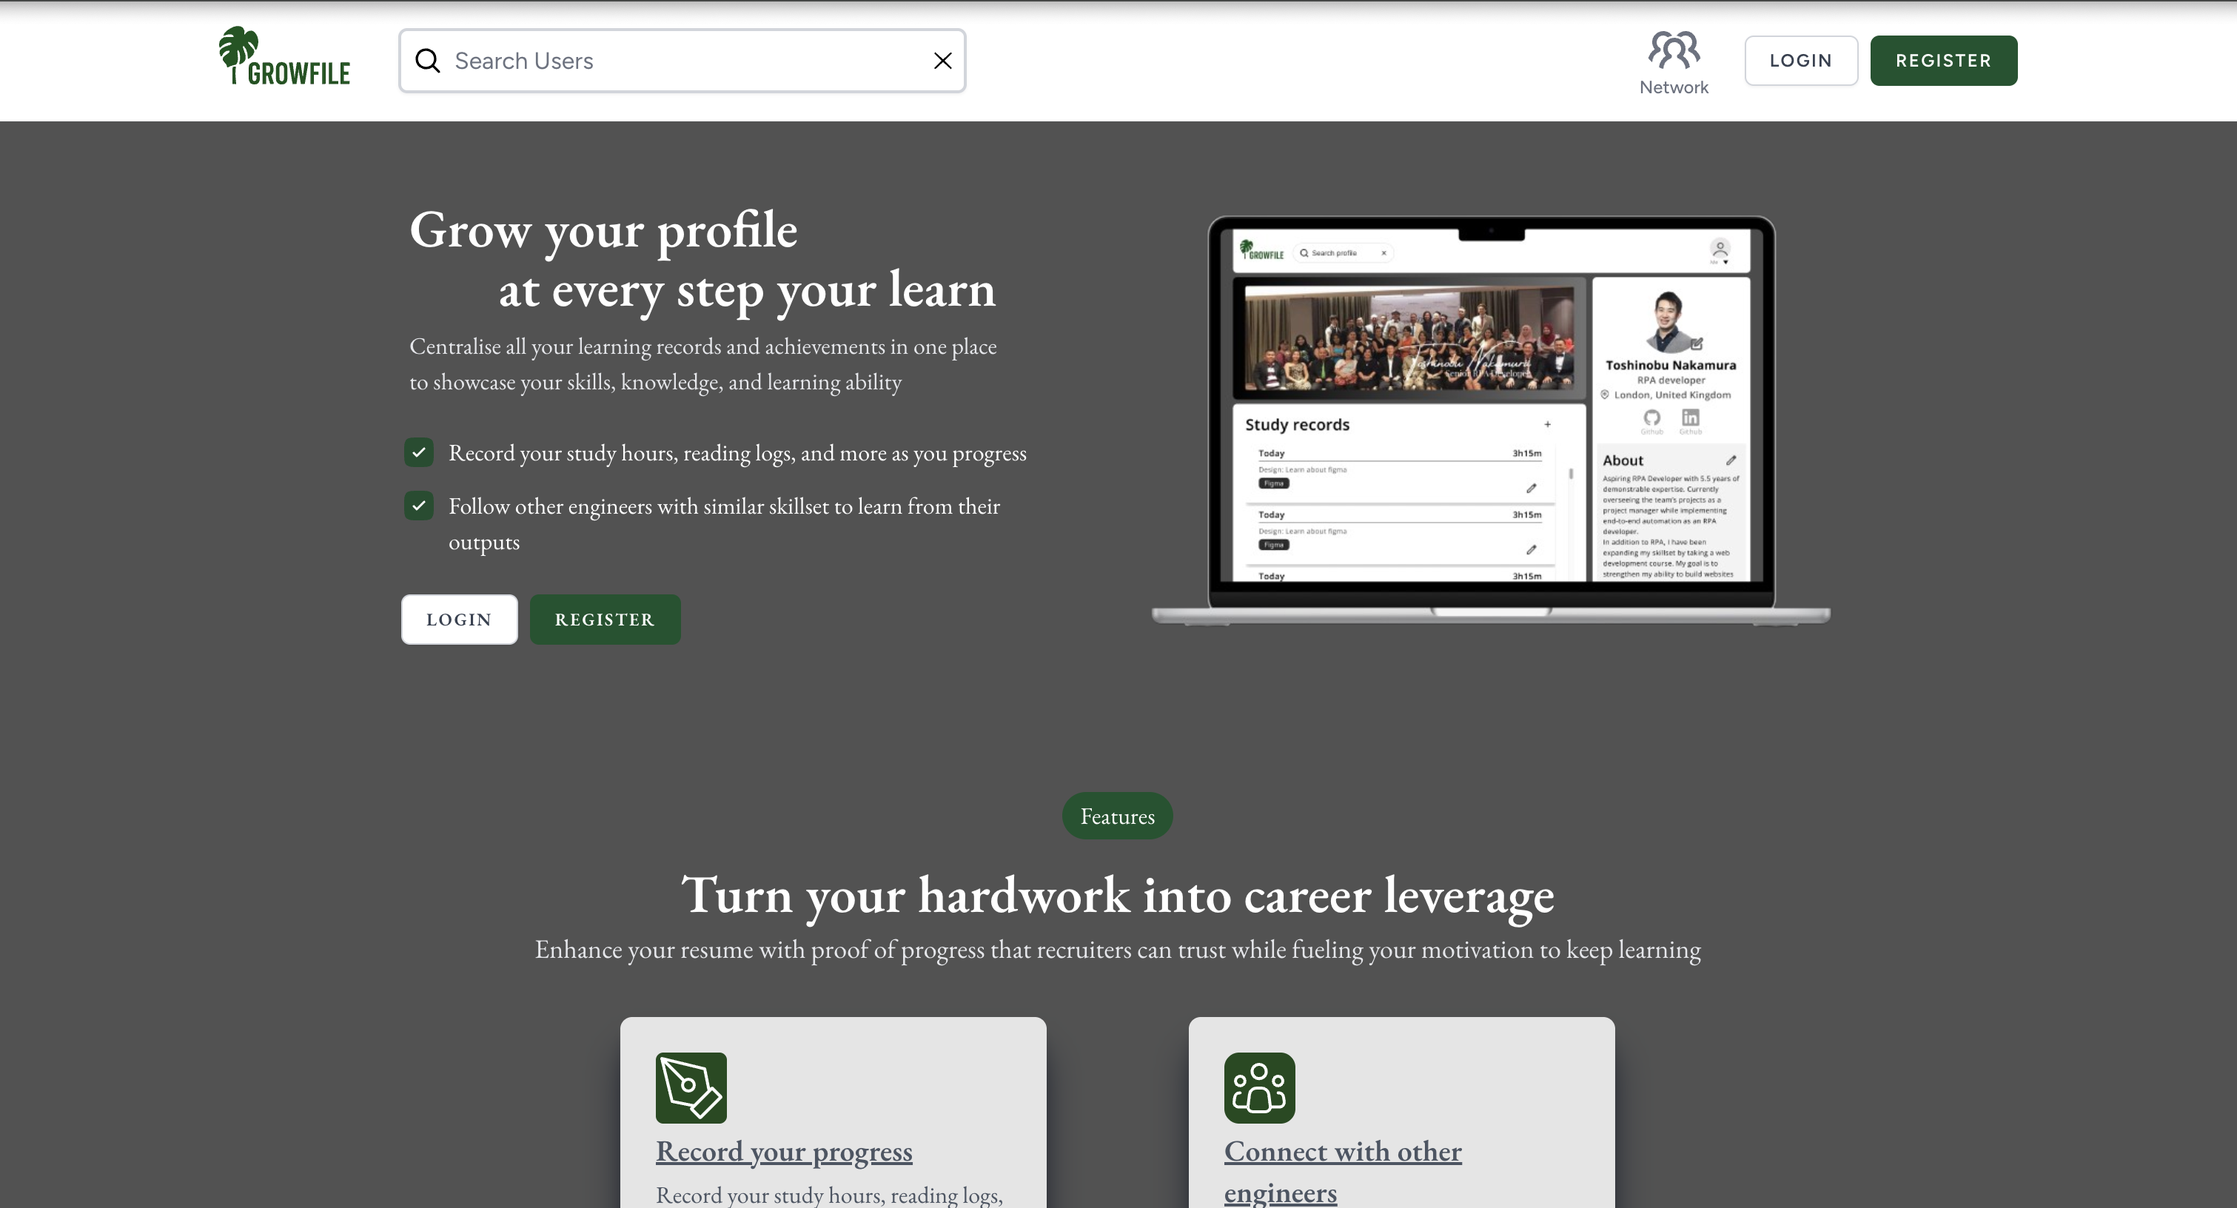
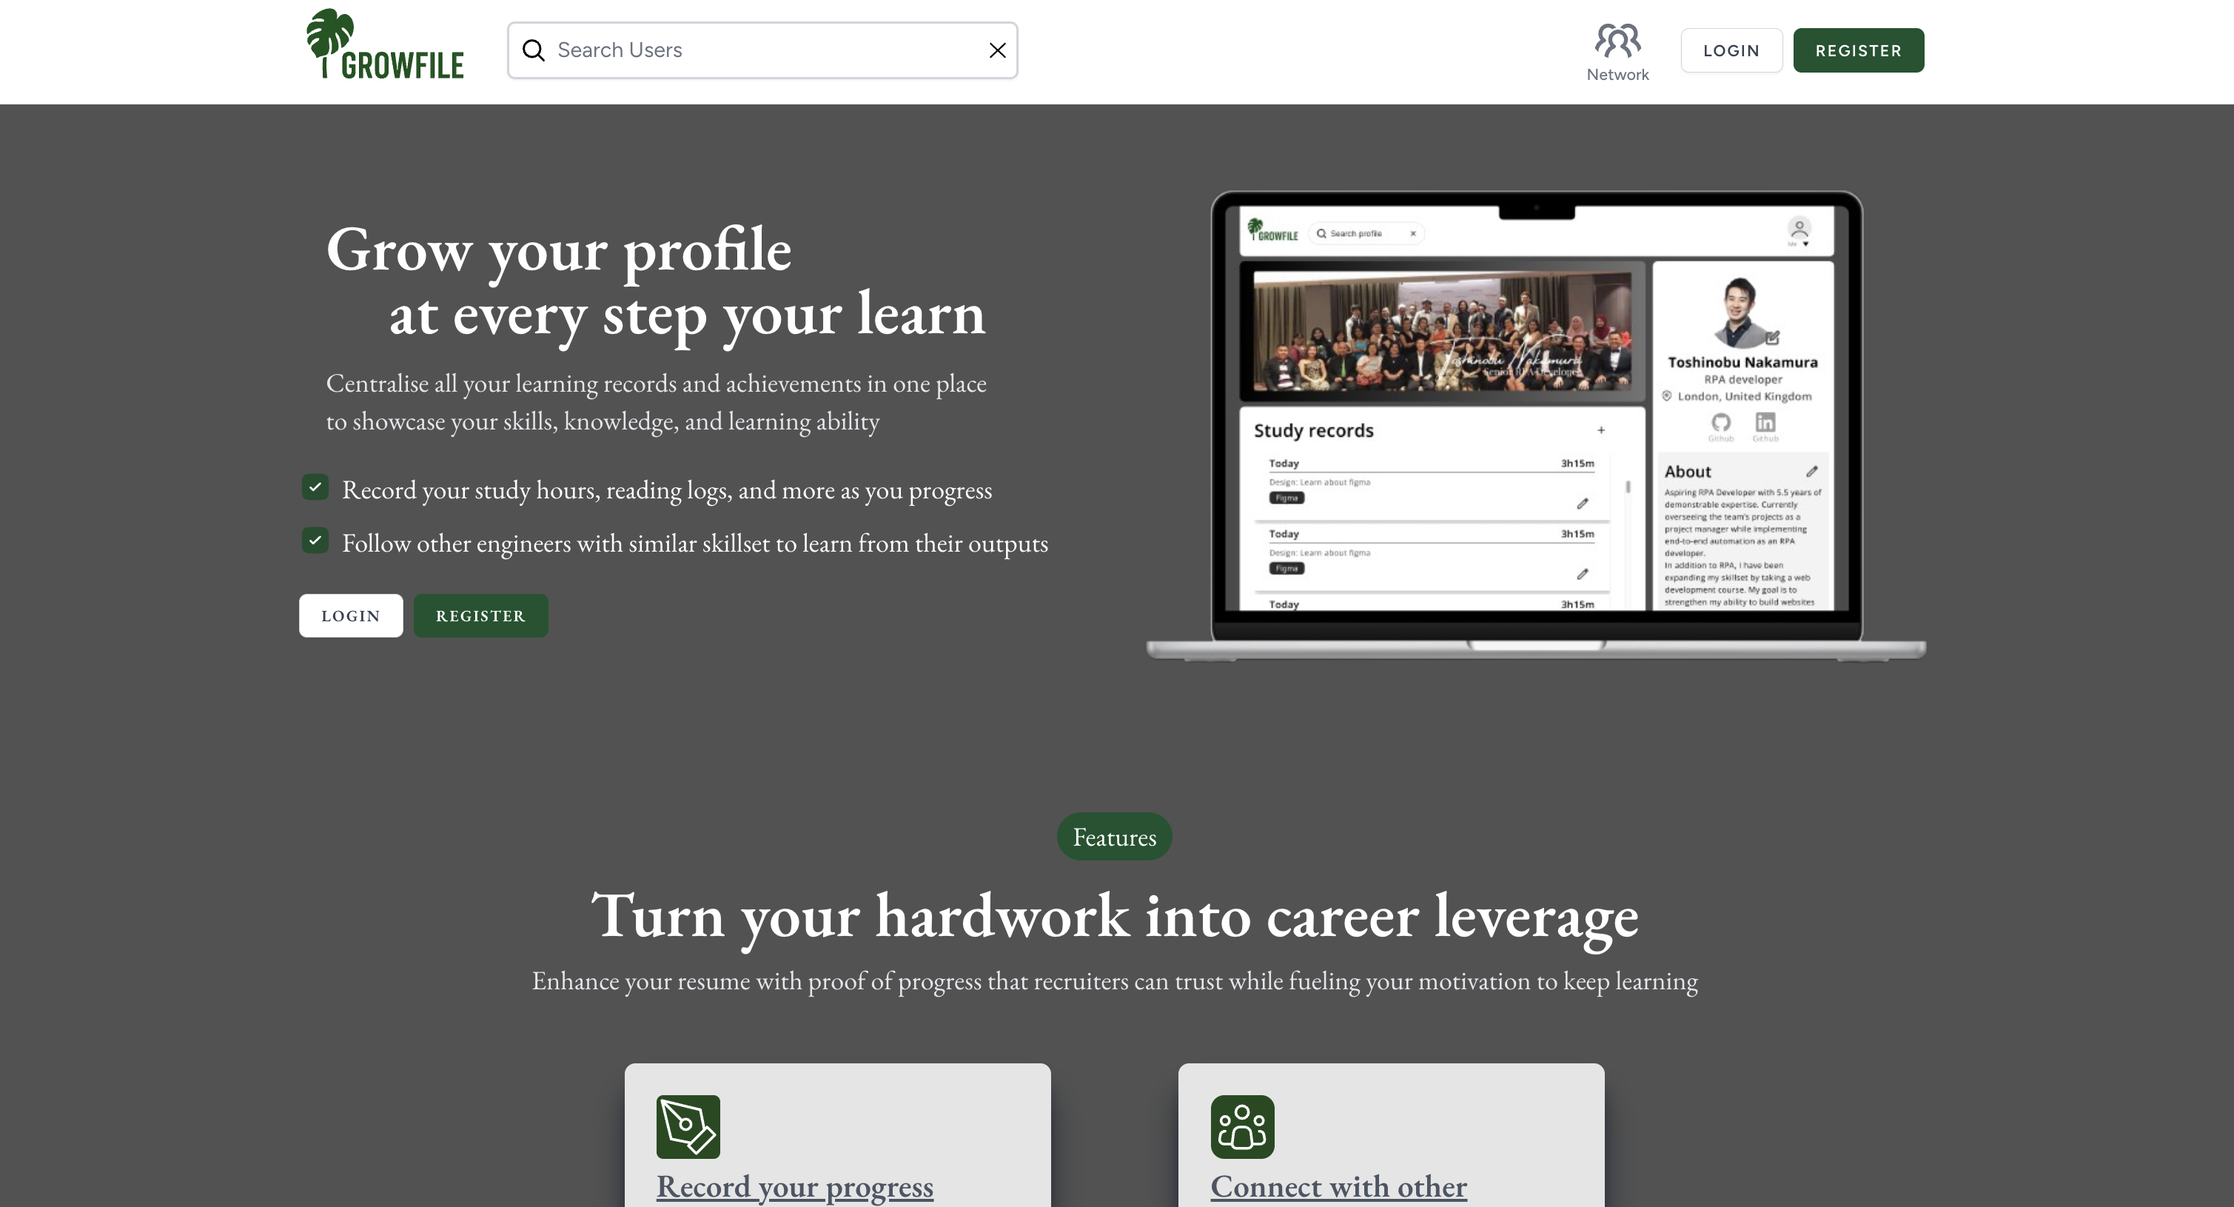
refactor: Change some text-size

diff --git a/growfile/resources/views/welcome.blade.php b/growfile/resources/views/welcome.blade.php
@@ -5,39 +5,32 @@
         </h2>
     </x-slot>
 
-    <div class="py-5 md:py-5 mx-auto font-garamond flex flex-col items-center gap-10 px-5 md:px-10">
+    <div class="py-5 font-garamond flex flex-col items-center gap-10 px-5 sm:px-10">
         
         {{-- Section 1: Hero --}}
-        <section class="mt-3 w-full max-w-5xl flex flex-col md:flex-row items-center">
+        <section class="mt-3 w-full max-w-7xl flex flex-col sm:flex-row items-center">
             <div class="flex-1 flex flex-col justify-around items-start gap-6">
                 <div class="mx-auto">
-                    <h2 class="text-3xl md:text-4xl text-white font-semibold text-left">Grow your profile</h2>
-                    <h2 class="text-3xl md:text-4xl text-white font-semibold text-right">at every step your learn</h2>
-                    <p class="text-md text-gray-200 text-center md:text-left text-wrap mt-2">
+                    <h2 class="text-3xl sm:text-5xl text-white font-semibold text-left">Grow your profile</h2>
+                    <h2 class="text-3xl sm:text-5xl text-white font-semibold text-right">at every step your learn</h2>
+                    <p class="text-md sm:text-xl text-gray-200 text-center sm:text-left text-wrap mt-2 sm:mt-4">
                         Centralise all your learning records and achievements in one place <br> 
                         to showcase your skills, knowledge, and learning ability
                     </p>
                 </div>
                 
                 {{-- Display image here in smartphones --}}
-                <div class="block overflow-hidden md:ml-10 rounded-lg sm:w-56 md:hidden">
+                <div class="block overflow-hidden sm:ml-10 rounded-lg sm:w-56 sm:hidden">
                     <img src="{{ asset('images/profile-page.png') }}" alt="profile page">
                 </div>
                 
                 <div class="sm:ml-7 flex flex-col gap-3">
-                    <div class="flex flex-row gap-2 items-start">
-                        <img src="{{ asset('images/icons/checked-mark.svg') }}" alt="check icon" class="w-6">
-                        <p class="text-md text-white text-left">
-                            Record your study hours, reading logs, and more as you progress
-                        </p>
-                    </div>
-                    
-                    <div class="flex flex-row gap-2 items-start">
-                        <img src="{{ asset('images/icons/checked-mark.svg') }}" alt="check icon" class="w-6">
-                        <p class="text-md text-white text-left">
-                            Follow other engineers with similar skillset to learn from their outputs
-                        </p>
-                    </div>
+                    <x-welcome.hero-item>
+                        Record your study hours, reading logs, and more as you progress
+                    </x-welcome.hero-item>
+                    <x-welcome.hero-item>
+                        Follow other engineers with similar skillset to learn from their outputs
+                    </x-welcome.hero-item>
                 </div>
                 
                 @guest
@@ -55,16 +48,16 @@
         </section>
 
         {{-- Section 2: Features --}}
-        <section class="w-full max-w-5xl flex flex-col items-center" id="features">
-            <div class="text-white bg-green-900 px-3 py-1 mt-5 sm:mt-10 rounded-full">Features</div>
-            <h2 class="mt-4 text-3xl lg:text-4xl text-white font-semibold text-center md:text-left">
+        <section class="w-full max-w-7xl flex flex-col items-center" id="features">
+            <div class="text-md sm:text-xl text-white bg-green-900 px-3 py-1 mt-5 sm:mt-10 rounded-full">Features</div>
+            <h2 class="mt-4 text-3xl lg:text-5xl text-white font-semibold text-center sm:text-left">
                 Turn your hardwork into career leverage
             </h2>
-            <p class="mt-1 text-md sm:text-lg text-gray-200 text-center md:text-left text-wrap">
+            <p class="mt-1 sm:mt-3 text-md sm:text-xl text-gray-200 text-center sm:text-left text-wrap">
                 Enhance your resume with proof of progress that recruiters can trust while fueling your motivation to keep learning
             </p>
             
-            <ul class="mt-8 flex flex-col items-center md:flex-row justify-center gap-10  sm:gap-24 w-full">
+            <ul class="mt-8 sm:mt-12 flex flex-col items-center sm:flex-row justify-center gap-10  sm:gap-24 w-full">
                 <x-welcome.feature-item img_path="images/icons/pen.svg" img_alt="pen icon" title="Record your progress" description="Record your study hours, reading logs, courses, licenses & certifications, portfolios, published articles, major projects at one place" />
                 <x-welcome.feature-item img_path="images/icons/network.svg" img_alt="network icon" title="Connect with other engineers" description="Find other engineers to get inspirations on books, courses, certifications, and portfolios to boost your learning and motivate yourself with their progress" />
             </ul>
@@ -72,20 +65,20 @@
 
         {{-- Section 3: How to use --}}
         <section class="w-full max-w-5xl flex flex-col items-center" id="how-to-use">
-            <div class="text-white bg-green-900 px-3 py-1 rounded-full mt-5 sm:mt-10">How to use</div>
+            <div class="text-md sm:text-xl text-white bg-green-900 px-3 py-1 rounded-full mt-5 sm:mt-16">How to use</div>
             
-            <ul class="mt-8 flex flex-col gap-8 w-full">
+            <ul class="mt-8 flex flex-col gap-16 w-full">
                 <x-welcome.how-to-use-item img_path='images/profile-page.png' img_alt='profile image' numbering="1" title="Create your profile" sub_title="Add all the basic information" description="Create your profile by adding name, location, introduction, career history, skills and entering your Github and LinkedIn URL."/>
                 <x-welcome.how-to-use-item img_path='images/profile-page.png' img_alt='profile image' numbering="2" title="Record your progress" sub_title="Update your activities" description="Just click the plus icon at the top right corner of each section and start adding your learning records. Click the pen icon for editing the existing records."/>
             </ul>
         </section>
 
         {{-- Section 4: Closing --}}
-        <section class="w-full max-w-6xl flex flex-col items-center gap-3 mb-12 mt-10">
-            <h2 class="text-3xl lg:text-4xl text-white">
+        <section class="w-full max-w-6xl flex flex-col items-center gap-3 sm:gap-5 mb-12 mt-10">
+            <h2 class="text-3xl sm:text-5xl text-white">
                 Make your effort count
             </h2>
-            <p class="text-md text-gray-100">
+            <p class="text-md sm:text-2xl text-gray-100">
                 Start creating your own growfile
             </p>
             @guest

diff --git a/growfile/resources/views/layouts/footer.blade.php b/growfile/resources/views/layouts/footer.blade.php
@@ -1,5 +1,5 @@
-<footer class="bg-white border-b border-gray-100 pl-10 pr-0 sm:px-40">
-    <div class="flex flex-row justify-around gap-10 items-start sm:items-center pt-5 pb-8">
+<footer class="sm:min-h-56 flex flex-col justify-center bg-white border-b border-gray-100 pl-10 pr-0 sm:px-40">
+    <div class="flex flex-row justify-around gap-10 items-start pt-5 sm:pt-8 pb-8">
         <figure class="flex-1 flex flex-col max-w-96">
             <!-- Logo -->
             <div class="shrink-0 flex items-center justify-center sm:justify-start">
@@ -7,32 +7,34 @@
                     <x-application-logo class="block h-12 sm:h-16 w-auto" />
                 </a>
             </div>
-            <figcaption class="text-center sm:text-left text-sm font-light text-gray-600">
+            <figcaption class="text-center sm:text-left text-sm sm:text-lg font-light text-gray-600">
                 Let us help you showcase your learning ability to recruiters and expand your network with other
                 like-minded engineers
             </figcaption>
         </figure>
-        <div class="flex-1 flex flex-col gap-3 sm:flex-row sm:justify-around ">
-            @if (Route::is('home'))
+        @if (Route::is('home'))
+            <div class="flex flex-col justify-start gap-3 sm:flex-row sm:justify-around ">
+                <nav class="flex flex-col gap-1 max-w-72 items-start">
+                    <h3 class="text-lg  sm:text-2xl font-extrabold">Page map</h3>
+
+                    <div class="ml-1 text-sm sm:text-lg font-light text-gray-600 flex flex-col gap-1 items-start">
+                        <a href="#features" class="hover:text-black">
+                            <p>Features</p>
+                        </a>
+
+                        <a href="#how-to-use" class="hover:text-black">
+                            <p>How to use</p>
+                        </a>
+                    </div>
+                </nav>
+
+            </div>
+        @endif
+        <div class="flex flex-col gap-3 sm:flex-row sm:justify-around ">
             <nav class="flex flex-col gap-1 max-w-72 items-start">
-                <h3 class="text-lg font-extrabold">Page map</h3>
+                <h3 class="text-lg sm:text-2xl font-extrabold">Site map</h3>
 
-                <div class="ml-1 text-sm font-light text-gray-600 flex flex-col gap-1 items-start">
-                    <a href="#features" class="hover:text-black">
-                        <p>Features</p>
-                    </a>
-
-                    <a href="#how-to-use" class="hover:text-black">
-                        <p>How to use</p>
-                    </a>
-                </div>
-            </nav>
-            @endif
-            
-            <nav class="flex flex-col gap-1 max-w-72 items-start">
-                <h3 class="text-lg font-extrabold">Site map</h3>
-
-                <div class="ml-1 text-sm font-light text-gray-600 flex flex-col gap-1 items-start">
+                <div class="ml-1 text-sm sm:text-lg font-light text-gray-600 flex flex-col gap-1 items-start">
                     <a href="{{ route('home') }}" class="hover:text-black">
                         <p>Home</p>
                     </a>

diff --git a/growfile/resources/views/components/primary-button.blade.php b/growfile/resources/views/components/primary-button.blade.php
@@ -1,11 +1,11 @@
 @props(['href' => null])
 
 @if($href)
-    <a href="{{ $href }}" {{ $attributes->merge(['class' => 'inline-flex items-center px-4 py-2 bg-green-900 border border-transparent rounded-md font-semibold text-xs text-white uppercase tracking-widest hover:bg-gray-700 focus:bg-gray-700 active:bg-gray-900 focus:outline-none focus:ring-2 focus:ring-indigo-500 focus:ring-offset-2 transition ease-in-out duration-150']) }}>
+    <a href="{{ $href }}" {{ $attributes->merge(['class' => 'inline-flex items-center px-4 py-2 bg-green-900 border border-transparent rounded-md font-semibold text-xs sm:text-md text-white uppercase tracking-widest hover:bg-gray-700 focus:bg-gray-700 active:bg-gray-900 focus:outline-none focus:ring-2 focus:ring-indigo-500 focus:ring-offset-2 transition ease-in-out duration-150']) }}>
         {{ $slot }}
     </a>
 @else
-    <button type="submit" {{ $attributes->merge(['class' => 'inline-flex items-center px-4 py-2 bg-green-900 border border-transparent rounded-md font-semibold text-xs text-white uppercase tracking-widest hover:bg-gray-700 focus:bg-gray-700 active:bg-gray-900 focus:outline-none focus:ring-2 focus:ring-indigo-500 focus:ring-offset-2 transition ease-in-out duration-150']) }}>
+    <button type="submit" {{ $attributes->merge(['class' => 'inline-flex items-center px-4 py-2 bg-green-900 border border-transparent rounded-md font-semibold text-xs sm:text-md text-white uppercase tracking-widest hover:bg-gray-700 focus:bg-gray-700 active:bg-gray-900 focus:outline-none focus:ring-2 focus:ring-indigo-500 focus:ring-offset-2 transition ease-in-out duration-150']) }}>
         {{ $slot }}
     </button>
 @endif

diff --git a/growfile/resources/views/components/secondary-button.blade.php b/growfile/resources/views/components/secondary-button.blade.php
@@ -1,11 +1,11 @@
 @props(['href' => null])
 
 @if($href)
-    <a href="{{ $href }}" {{ $attributes->merge(['class' => 'inline-flex items-center px-4 py-2 bg-white border border-gray-300 rounded-md font-semibold text-xs text-gray-700 uppercase tracking-widest shadow-sm hover:bg-gray-50 focus:outline-none focus:ring-2 focus:ring-indigo-500 focus:ring-offset-2 disabled:opacity-25 transition ease-in-out duration-150']) }}>
+    <a href="{{ $href }}" {{ $attributes->merge(['class' => 'inline-flex items-center px-4 py-2 bg-white border border-gray-300 rounded-md font-semibold text-xs sm:text-md text-gray-700 uppercase tracking-widest shadow-sm hover:bg-gray-50 focus:outline-none focus:ring-2 focus:ring-indigo-500 focus:ring-offset-2 disabled:opacity-25 transition ease-in-out duration-150']) }}>
         {{ $slot }}
     </a>
 @else
-    <button type="button" {{ $attributes->merge(['class' => 'inline-flex items-center px-4 py-2 bg-white border border-gray-300 rounded-md font-semibold text-xs text-gray-700 uppercase tracking-widest shadow-sm hover:bg-gray-50 focus:outline-none focus:ring-2 focus:ring-indigo-500 focus:ring-offset-2 disabled:opacity-25 transition ease-in-out duration-150']) }}>
+    <button type="button" {{ $attributes->merge(['class' => 'inline-flex items-center px-4 py-2 bg-white border border-gray-300 rounded-md font-semibold text-xs sm:text-md  text-gray-700 uppercase tracking-widest shadow-sm hover:bg-gray-50 focus:outline-none focus:ring-2 focus:ring-indigo-500 focus:ring-offset-2 disabled:opacity-25 transition ease-in-out duration-150']) }}>
         {{ $slot }}
     </button>
 @endif

diff --git a/growfile/resources/views/layouts/navigation-for-guest.blade.php b/growfile/resources/views/layouts/navigation-for-guest.blade.php
@@ -4,12 +4,12 @@
  class="bg-white border-b border-gray-100 py-2">
     <!-- Primary Navigation Menu -->
     <div class="max-w-7xl mx-auto px-2 sm:px-6 lg:px-8">
-        <div class="flex justify-between h-16">
+        <div class="flex justify-between h-16 sm:h-18">
             <div class="w-full flex items-center gap-4 md:gap-8">
                 <!-- Logo -->
                 <div class="shrink-0 flex items-center">
                      <a href="{{ route('home') }}" class="hover:scale-105">
-                        <x-application-logo class="block h-12 w-auto" />
+                        <x-application-logo class="block h-12 sm:h-16 w-auto" />
                     </a>
                 </div>
 
@@ -19,7 +19,7 @@
                 </div>
 
                 <!-- Network button -->
-                <div class="hidden sm:block text-xs leading-4 font-medium text-gray-500 hover:text-gray-800 hover:scale-105 focus:outline-none transition ease-in-out duration-150">
+                <div class="hidden sm:block text-sm leading-4 font-medium text-gray-500 hover:text-gray-800 hover:scale-105 focus:outline-none transition ease-in-out duration-150">
                     <a class="flex flex-col justify-center items-center" href="{{ route('professional_profile.index') }}">
                             <img src="{{ asset('/images/icons/people.svg') }}" alt="" class="block h-8 sm:h-9 w-auto" />
                             <p>Network</p>

diff --git a/growfile/resources/views/components/welcome/how-to-use-item.blade.php b/growfile/resources/views/components/welcome/how-to-use-item.blade.php
@@ -1,18 +1,18 @@
 @props(['img_path', 'img_alt', 'numbering', 'title', 'sub_title', 'description'])
 
-<li class="flex flex-col md:flex-row items-start gap-3 bg-neutral-200 py-8 px-5 sm:px-16 rounded-lg shadow-xl shadow-gray-900">
+<li class="flex flex-col md:flex-row items-start gap-3 bg-neutral-200 py-8 px-5 sm:px-12 rounded-lg shadow-xl shadow-gray-900">
     <div class="flex-1 flex flex-col justify-center gap-1 md:gap-3">
         <div class="flex flex-row items-start gap-2 sm:mt-5">
             <div
                 class="bg-green-900 size-8 text-center flex justify-center items-center rounded-full text-white text-sm sm:text-lg font-bold">
                 {{ $numbering }}
             </div>
-            <h3 class="text-xl md:text-2xl flex-1 text-gray-600 font-semibold text-left">
+            <h3 class="text-xl sm:text-3xl flex-1 text-gray-600 font-semibold text-left">
                 {{ $title }}
             </h3>
         </div>
-        <p class="text-gray-500 text-lg">{{ $sub_title }}</p>
-        <p class="text-md font-thin text-gray-600 text-left text-wrap">
+        <p class="text-gray-500 text-lg sm:text-xl">{{ $sub_title }}</p>
+        <p class="text-md sm:text-xl font-thin text-gray-600 text-left text-wrap">
             {{ $description }}
         </p>
     </div>

diff --git a/growfile/resources/views/components/welcome/feature-item.blade.php b/growfile/resources/views/components/welcome/feature-item.blade.php
@@ -5,10 +5,10 @@
     'description'
 ])
 
-<li {{ $attributes->merge(['class' => 'bg-neutral-200 size-72 sm:size-72 p-6 rounded-lg flex flex-col gap-1 shadow-xl shadow-gray-900']) }}>
+<li {{ $attributes->merge(['class' => 'bg-neutral-200 size-72 sm:size-80 p-6 rounded-lg flex flex-col gap-1 shadow-xl shadow-gray-900']) }}>
     <img src="{{ asset($img_path) }}" alt="{{ $img_alt }}" class="w-12">
-    <h3 class="text-xl underline font-semibold text-gray-600">{{ $title }}</h3>
-    <p class="text-md font-thin text-gray-600">
+    <h3 class="text-xl sm:text-2xl underline font-semibold text-gray-600">{{ $title }}</h3>
+    <p class="text-md sm:text-xl font-thin text-gray-600">
         {{ $description }}
     </p>
 </li>

diff --git a/growfile/resources/views/components/welcome/hero-item.blade.php b/growfile/resources/views/components/welcome/hero-item.blade.php
@@ -1,0 +1,6 @@
+  <div class="flex flex-row gap-2 items-start">
+      <img src="{{ asset('images/icons/checked-mark.svg') }}" alt="check icon" class="w-6">
+      <p class="text-md sm:text-xl text-white text-left">
+          {{ $slot }}
+      </p>
+  </div>
